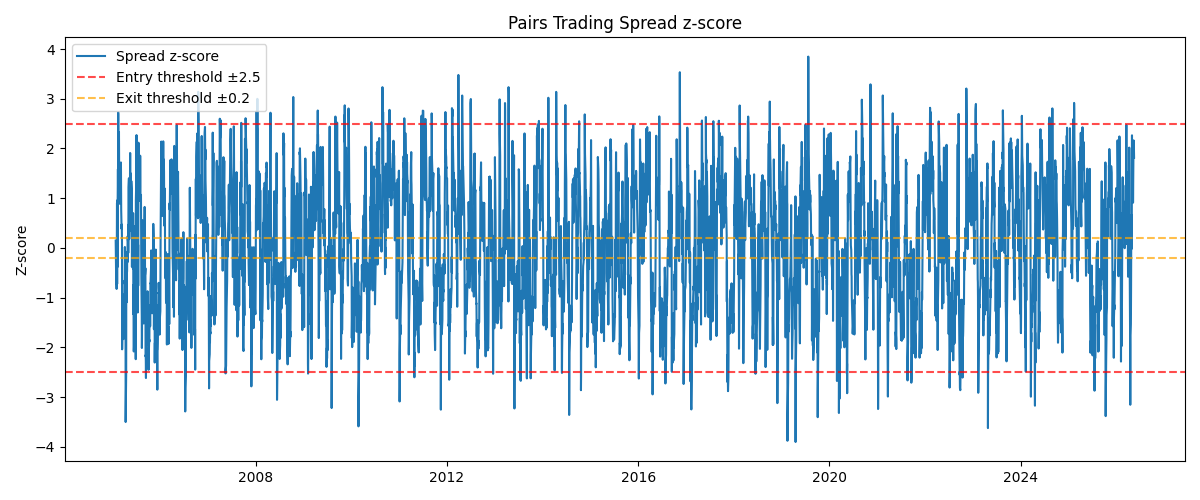
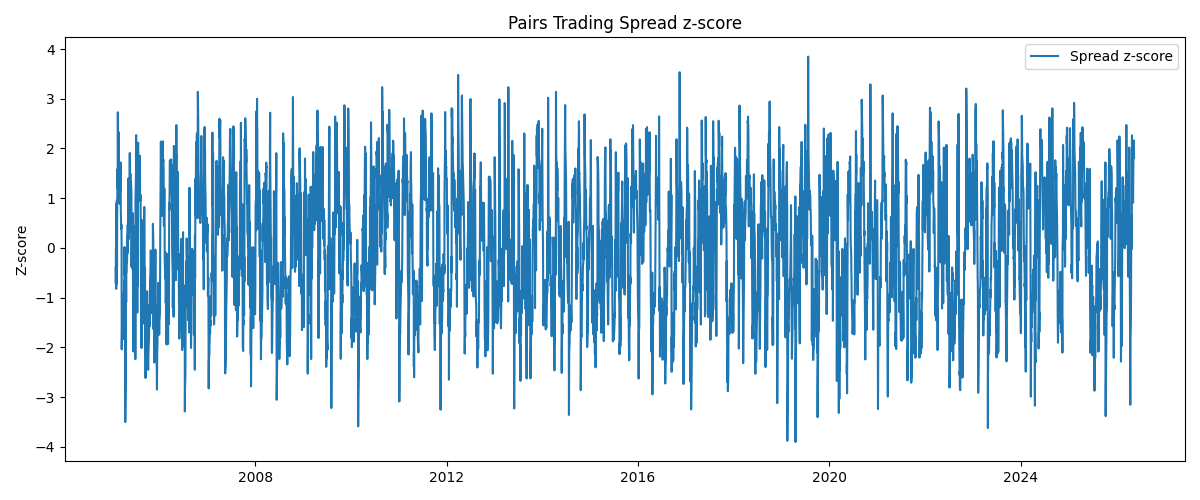
Enhance temporal validation, sizing, and IRR
Trim dataset to start from 2005 and refine position sizing and PnL calculation: allocate full notional across A and beta*B, compute daily PnL using prior-day shares, and derive strategy returns from daily PnL. Reduce DCA monthly contribution from 10,000 to 1,000. Add annualized IRR helpers for lump-sum and DCA, compute Buy-&-Hold and DCA IRR in rolling temporal validation, and exclude incomplete 2026 data. Add plotting utilities to export temporal validation and IRR comparison PNGs and save updated temporal_validation_results.csv. Update strategy_comparison.csv and refresh z-score figure (removed threshold lines in the z-score plot). Overall these changes improve validation metrics, IRR reporting, and plotting for comparative analysis.

diff --git a/Pairs Trading/pairs_trading_analysis.py b/Pairs Trading/pairs_trading_analysis.py
@@ -14,6 +14,7 @@ def load_data():
     pep = pep[['Date', 'Close']].rename(columns={'Close': 'PEP'})
     df = pd.merge(ko, pep, on='Date', how='inner').sort_values('Date').set_index('Date')
     df = df.dropna()
+    df = df.loc[df.index >= pd.Timestamp('2005-01-01')]
     return df
 
 
@@ -65,18 +66,20 @@ def run_pair_trading(prices_a, prices_b, window=20, entry_z=2.5, exit_z=0.2, not
     df['a_shares'] = 0.0
     df['b_shares'] = 0.0
 
-    # 根據當前部位計算每檔股票的股數，假設每次進場以 notional 的一半槓桿
+    # 根據當前部位計算每檔股票的股數
+    # A 股數量 = total capital / (A_price + beta * B_price)
+    # B 股數量 = beta * A_shares（做空時加負號）
     current_a = 0.0
     current_b = 0.0
     for idx, row in df.iterrows():
         if row['position'] == 1:
-            if current_a == 0 and current_b == 0:
-                current_a = (notional / 2) / row['A']
-                current_b = -(notional / 2) / row['B']
+            base_shares = notional / (row['A'] + row['beta'] * row['B'])
+            current_a = base_shares
+            current_b = -row['beta'] * base_shares
         elif row['position'] == -1:
-            if current_a == 0 and current_b == 0:
-                current_a = -(notional / 2) / row['A']
-                current_b = (notional / 2) / row['B']
+            base_shares = notional / (row['A'] + row['beta'] * row['B'])
+            current_a = -base_shares
+            current_b = row['beta'] * base_shares
         else:
             current_a = 0.0
             current_b = 0.0
@@ -85,8 +88,11 @@ def run_pair_trading(prices_a, prices_b, window=20, entry_z=2.5, exit_z=0.2, not
         df.at[idx, 'b_shares'] = current_b
 
     # 計算部位價值與策略每日報酬
-    df['position_value'] = df['a_shares'] * df['A'] + df['b_shares'] * df['B']
-    df['strategy_returns'] = df['position_value'].diff().fillna(0) / notional
+    # 利用昨天的持股股數 (shift(1)) 乘以今天的價格變動 (diff())
+    df['daily_pnl'] = df['a_shares'].shift(1) * df['A'].diff() + df['b_shares'].shift(1) * df['B'].diff()
+    
+    # 每日報酬率 = 每日損益 / 初始總資金
+    df['strategy_returns'] = df['daily_pnl'].fillna(0) / notional
     df['strategy_value'] = (1 + df['strategy_returns']).cumprod() * notional
     return df.dropna()
 
@@ -121,8 +127,8 @@ def performance_metrics(returns):
     }
 
 # 定期定額 (DCA) 策略：每月月底分批平均買進兩檔股票
-# 這裡將每月 10,000 USD 均分成 KO 與 PEP
-def dca_strategy(prices_a, prices_b, monthly_contribution=10_000):
+# 這裡將每月 1,000 USD 均分成 KO 與 PEP
+def dca_strategy(prices_a, prices_b, monthly_contribution=1_000):
     df = pd.DataFrame({'A': prices_a, 'B': prices_b})
     month_ends = df.resample('ME').last().index
     a_shares = 0.0
@@ -166,8 +172,39 @@ def find_best_params(prices_a, prices_b, beta):
 # 時序驗證：使用擴展訓練期 + 未見測試期的驗證方法
 # 先用 Year 1 訓練並測試 Year 2...n，再用 Years 1-2 訓練並測試 Years 3...n，以此類推
 # 重要的是：beta 必須在訓練期內估計，測試期則直接套用該 beta 計算 Spread 與 Z-score
+def _annualized_lump_sum_irr(value_series, initial_value):
+    """計算單次投資的年化IRR。value_series應為Series（帶時間索引）。"""
+    if len(value_series) < 2 or initial_value <= 0:
+        return np.nan
+    final_value = float(value_series.iloc[-1])
+    if final_value <= 0:
+        return np.nan
+    days = (value_series.index[-1] - value_series.index[0]).days
+    years = days / 365.25
+    if years <= 0:
+        return np.nan
+    return (final_value / initial_value) ** (1 / years) - 1
+
+
+def _compute_dca_annual_irr(prices_a, prices_b, monthly_contribution=1_000):
+    value = dca_strategy(prices_a, prices_b, monthly_contribution=monthly_contribution)
+    monthly_values = value.resample('ME').last()
+    cashflows = [-monthly_contribution] * len(monthly_values)
+    if not cashflows:
+        return np.nan
+    # 最後一個月的現金流 = -投資 + 月底投資組合價值
+    cashflows[-1] += monthly_values.iloc[-1]
+    irr_monthly = npf.irr(cashflows)
+    if np.isnan(irr_monthly):
+        return np.nan
+    return (1 + irr_monthly) ** 12 - 1
+
+
 def rolling_temporal_validation(df):
     years = sorted(df.index.year.unique())
+    # Exclude incomplete year (2026 only has data up to May 15)
+    years = [y for y in years if y < 2026]
+    
     validation_results = []
 
     for i in range(1, len(years)):
@@ -190,6 +227,13 @@ def rolling_temporal_validation(df):
         test_result = run_pair_trading(test_df['KO'], test_df['PEP'], beta=beta, **best_params)
         test_metrics = performance_metrics(test_result['strategy_returns'])
 
+        test_bh_shares_ko = 10_000 / 2 / test_df['KO'].iloc[0]
+        test_bh_shares_pep = 10_000 / 2 / test_df['PEP'].iloc[0]
+        test_bh_value = test_bh_shares_ko * test_df['KO'] + test_bh_shares_pep * test_df['PEP']
+        test_bh_irr = _annualized_lump_sum_irr(test_bh_value, 10_000)
+
+        test_dca_irr = _compute_dca_annual_irr(test_df['KO'], test_df['PEP'], monthly_contribution=1_000)
+
         validation_results.append({
             'Train Years': f"{train_years[0]}-{train_years[-1]}",
             'Test Years': f"{test_years[0]}-{test_years[-1]}",
@@ -207,23 +251,109 @@ def rolling_temporal_validation(df):
             'Test Sharpe': test_metrics['Sharpe Ratio'],
             'Test Cumulative Return': test_metrics['Cumulative Return'],
             'Test Max Drawdown': test_metrics['Max Drawdown'],
+            'Test IRR Pairs Trading': _annualized_lump_sum_irr(test_result['strategy_value'], 10_000),
+            'Test IRR Buy and Hold': test_bh_irr,
+            'Test IRR DCA': test_dca_irr,
         })
 
     return pd.DataFrame(validation_results)
 
 
-# 自訂每月 IRR 計算函數（備援用），目前實際並未在 main 中使用
-# 這個函數可用於計算現金流的月度內部收益率
-def monthly_irr(cashflows):
-    cashflows = np.array(cashflows, dtype=float)
-    coeffs = cashflows[::-1]
-    roots = np.roots(coeffs)
-    real_roots = np.real(roots[np.isreal(roots)])
-    positive_roots = real_roots[real_roots > 0]
-    if len(positive_roots) == 0:
-        return np.nan
-    x = positive_roots[np.argmin(np.abs(positive_roots - 1))]
-    return x - 1
+def plot_temporal_validation(validation_df, out_filepath='temporal_validation.png'):
+    """Plot temporal validation results in 2x2 panels similar to reference.
+
+    Panels:
+    - Test Cumulative Return (%)
+    - Test Annualized Return (%)
+    - Test Max Drawdown (%)
+    - Test Volatility (%)
+    """
+    if validation_df.empty:
+        print('No validation results to plot.')
+        return
+
+    # x labels: use Test Years for each validation window
+    labels = validation_df['Test Years'].astype(str).tolist()
+    x = list(range(len(labels)))
+
+    cum = validation_df['Test Cumulative Return'] * 100
+    ann = validation_df['Test Annualized Return'] * 100
+    mdd = validation_df['Test Max Drawdown'] * 100
+    vol = validation_df['Test Volatility'] * 100
+
+    fig, axes = plt.subplots(2, 2, figsize=(14, 10))
+    fig.suptitle('Temporal Validation Results', fontsize=16)
+
+    ax = axes[0, 0]
+    ax.plot(x, cum, marker='o', linestyle='-', color='tab:blue')
+    ax.set_title('Test Cumulative Return (%)')
+    ax.set_ylabel('Cumulative Return (%)')
+    ax.grid(True, linestyle='--', alpha=0.5)
+
+    ax = axes[0, 1]
+    ax.plot(x, ann, marker='s', linestyle='-', color='tab:orange')
+    ax.set_title('Test Annualized Return (%)')
+    ax.set_ylabel('Annualized Return (%)')
+    ax.grid(True, linestyle='--', alpha=0.5)
+
+    ax = axes[1, 0]
+    ax.plot(x, mdd, marker='d', linestyle='-', color='tab:green')
+    ax.set_title('Test Maximum Drawdown (%)')
+    ax.set_ylabel('Max Drawdown (%)')
+    ax.grid(True, linestyle='--', alpha=0.5)
+
+    ax = axes[1, 1]
+    ax.plot(x, vol, marker='^', linestyle='-', color='tab:red')
+    ax.set_title('Test Volatility (%)')
+    ax.set_ylabel('Volatility (%)')
+    ax.grid(True, linestyle='--', alpha=0.5)
+
+    # X ticks
+    for a in axes.flatten():
+        a.set_xticks(x)
+        a.set_xticklabels(labels, rotation=45, ha='right', fontsize=8)
+
+    plt.tight_layout(rect=[0, 0.03, 1, 0.95])
+    plt.savefig(out_filepath, dpi=150)
+    plt.close(fig)
+    print(f'Temporal validation plot saved to {out_filepath}')
+
+
+def plot_irr_comparison(validation_df, out_filepath='temporal_validation_irr.png'):
+    """Plot IRR comparison across test periods for Pairs Trading, B&H, and DCA using line chart."""
+    if validation_df.empty:
+        print('No validation results to plot IRR.')
+        return
+
+    labels = validation_df['Test Years'].astype(str).tolist()
+    x = list(range(len(labels)))
+    pt_irr = validation_df['Test IRR Pairs Trading'] * 100
+    bh_irr = validation_df['Test IRR Buy and Hold'] * 100
+    dca_irr = validation_df['Test IRR DCA'] * 100
+
+    fig, ax = plt.subplots(figsize=(14, 7))
+    
+    ax.plot(x, pt_irr, marker='o', linestyle='-', linewidth=2, markersize=6, 
+            color='tab:blue', label='Pairs Trading')
+    ax.plot(x, bh_irr, marker='s', linestyle='-', linewidth=2, markersize=6, 
+            color='tab:orange', label='Buy and Hold')
+    ax.plot(x, dca_irr, marker='^', linestyle='-', linewidth=2, markersize=6, 
+            color='tab:green', label='DCA')
+
+    ax.set_title('Test-Period Annualized IRR Comparison (%)', fontsize=14, fontweight='bold')
+    ax.set_xlabel('Test Period', fontsize=11)
+    ax.set_ylabel('Annualized IRR (%)', fontsize=11)
+    ax.set_xticks(x)
+    ax.set_xticklabels(labels, rotation=45, ha='right', fontsize=9)
+    ax.grid(True, linestyle='--', alpha=0.3)
+    ax.axhline(0, color='black', linestyle='-', linewidth=0.8)
+    ax.legend(fontsize=11, loc='best')
+
+    plt.tight_layout()
+    plt.savefig(out_filepath, dpi=150)
+    plt.close(fig)
+    print(f'IRR comparison plot saved to {out_filepath}')
+
 
 # 印出策略績效指標的輔助函數
 # 支援百分比與數值格式化輸出，方便快速檢視
@@ -313,33 +443,37 @@ def main():
     print('\nRolling Temporal Validation Results:')
     if not validation_df.empty:
         print(f'Validation windows: {len(validation_df)}')
-        validation_display = validation_df[['Train Years', 'Test Years', 'Window', 'EntryZ', 'ExitZ', 'Test Annualized Return', 'Test Volatility', 'Test Sharpe', 'Test Cumulative Return', 'Test Max Drawdown']]
+        validation_display = validation_df[['Train Years', 'Test Years', 'Window', 'EntryZ', 'ExitZ', 'Test Annualized Return', 'Test Volatility', 'Test Sharpe', 'Test Cumulative Return', 'Test Max Drawdown', 'Test IRR Pairs Trading', 'Test IRR Buy and Hold', 'Test IRR DCA']]
         print(validation_display)
         validation_df.to_csv('temporal_validation_results.csv', index=False)
         print('\n時序驗證結果已輸出到 temporal_validation_results.csv')
-        avg_test = validation_df[['Test Annualized Return', 'Test Volatility', 'Test Sharpe', 'Test Cumulative Return', 'Test Max Drawdown']].mean()
+        avg_test = validation_df[['Test Annualized Return', 'Test Volatility', 'Test Sharpe', 'Test Cumulative Return', 'Test Max Drawdown', 'Test IRR Pairs Trading', 'Test IRR Buy and Hold', 'Test IRR DCA']].mean()
         print('\nAverage test-period metrics across windows:')
         for metric, value in avg_test.items():
-            if 'Return' in metric or 'Drawdown' in metric:
+            if 'Return' in metric or 'Drawdown' in metric or 'IRR' in metric:
                 print(f'{metric}: {value:.2%}')
             else:
                 print(f'{metric}: {value:.4f}')
+        # Plot temporal validation summary
+        try:
+            plot_temporal_validation(validation_df, out_filepath='temporal_validation.png')
+        except Exception as e:
+            print('Failed to plot temporal validation:', e)
+        try:
+            plot_irr_comparison(validation_df, out_filepath='temporal_validation_irr.png')
+        except Exception as e:
+            print('Failed to plot IRR comparison:', e)
     else:
         print('No temporal validation windows available.')
 
     # 繪製 z-score 交易信號圖並儲存成檔案
     fig, ax = plt.subplots(figsize=(12, 5))
     ax.plot(pair_df.index, pair_df['zscore'], label='Spread z-score')
-    ax.axhline(2.5, color='red', linestyle='--', alpha=0.7, label='Entry threshold ±2.5')
-    ax.axhline(-2.5, color='red', linestyle='--', alpha=0.7)
-    ax.axhline(0.2, color='orange', linestyle='--', alpha=0.7, label='Exit threshold ±0.2')
-    ax.axhline(-0.2, color='orange', linestyle='--', alpha=0.7)
     ax.set_title('Pairs Trading Spread z-score')
     ax.set_ylabel('Z-score')
     ax.legend()
     plt.tight_layout()
     plt.savefig('Figure_zscore.png', dpi=100)
-    plt.show()
 
 
 if __name__ == '__main__':